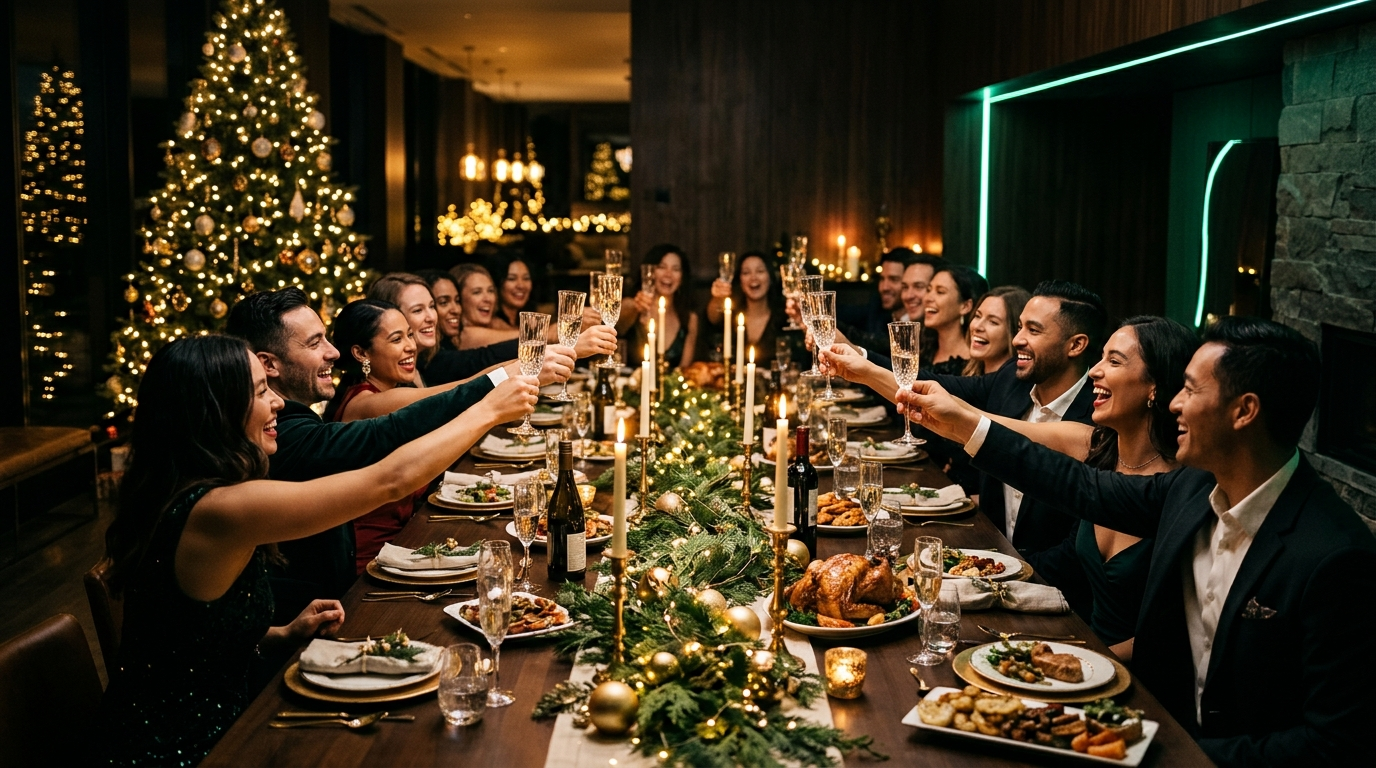
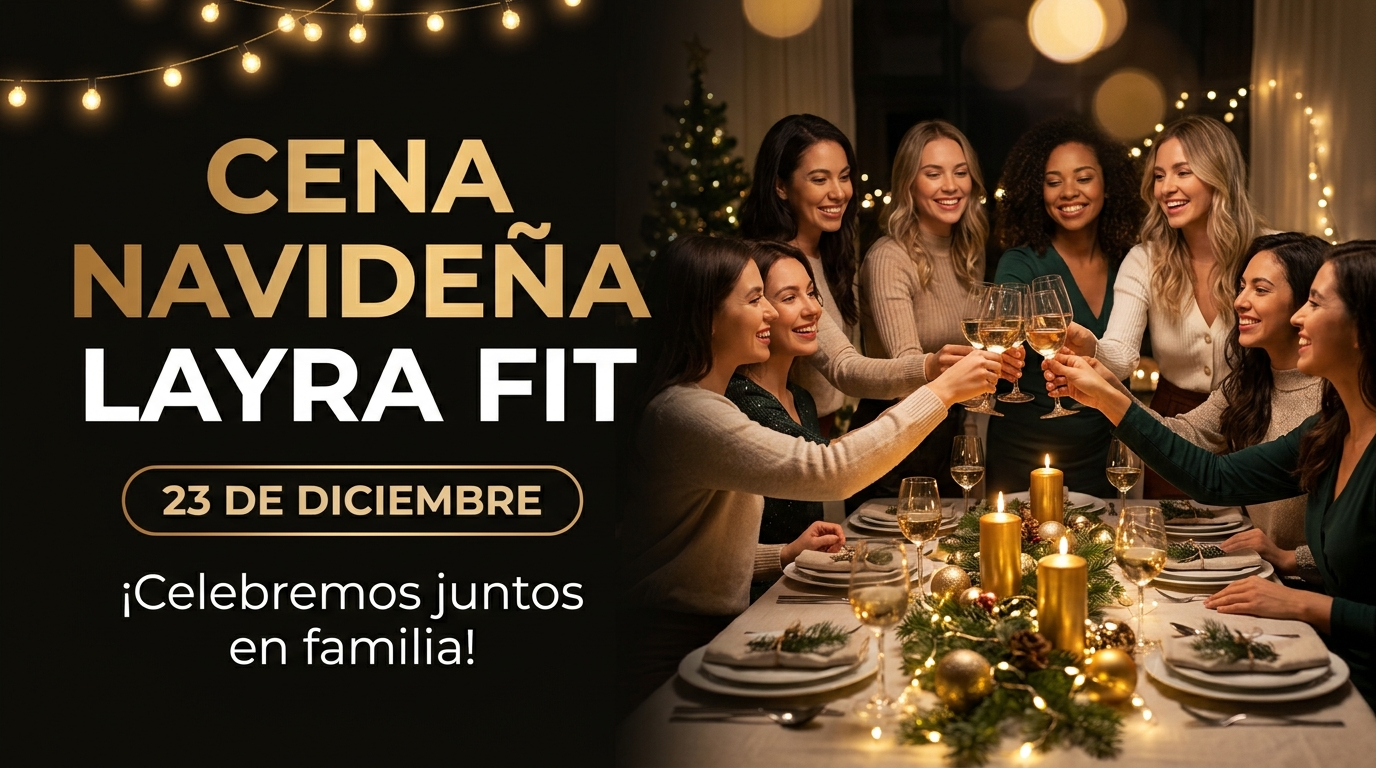
feat(student): slider 100% imagen sin superposicion de texto con flyers graficos promocionales

diff --git a/public/css/app.css b/public/css/app.css
@@ -70,21 +70,13 @@ a {color: inherit; text-decoration: none;}
 .pricing-card:hover {transform: translateY(-4px); border-color: var(--primary) !important; box-shadow: 0 12px 30px rgba(81, 32, 29, 0.5) !important;}
 .news-slider-container {position: relative; width: 100%; overflow: hidden; border-radius: 20px; border: 1px solid var(--border-color); background: var(--bg-card); box-shadow: 0 10px 28px rgba(0,0,0,0.35); user-select: none; touch-action: pan-y;}
 .news-slider-wrapper {display: flex; width: 100%; transition: transform 0.45s cubic-bezier(0.25, 1, 0.5, 1);}
-.news-slide {min-width: 100%; position: relative; display: flex; flex-direction: column; justify-content: flex-end; min-height: 220px; height: 230px; box-sizing: border-box; overflow: hidden;}
-.news-slide-bg {position: absolute; top: 0; left: 0; width: 100%; height: 100%; object-fit: cover; z-index: 1; transition: transform 0.6s ease;}
-.news-slide:hover .news-slide-bg {transform: scale(1.03);}
-.news-slide-overlay {position: absolute; inset: 0; background: linear-gradient(180deg, rgba(13,15,23,0.15) 0%, rgba(13,15,23,0.65) 50%, rgba(13,15,23,0.96) 100%); z-index: 2;}
-.news-slide-content {position: relative; z-index: 3; padding: 18px; display: flex; flex-direction: column; gap: 6px;}
-.news-slide-tag {display: inline-flex; align-items: center; gap: 5px; background: rgba(34, 197, 94, 0.2); border: 1px solid rgba(34, 197, 94, 0.45); color: #4ade80; padding: 4px 10px; border-radius: 20px; font-size: 11px; font-weight: 800; width: fit-content; text-transform: uppercase; letter-spacing: 0.5px;}
-.news-slide-tag.tag-sorteo {background: rgba(239, 68, 68, 0.22); border-color: rgba(239, 68, 68, 0.5); color: #f87171;}
-.news-slide-tag.tag-cena {background: rgba(234, 179, 8, 0.22); border-color: rgba(234, 179, 8, 0.5); color: #facc15;}
-.news-slide-tag.tag-promo {background: rgba(168, 85, 247, 0.22); border-color: rgba(168, 85, 247, 0.5); color: #c084fc;}
-.news-slide-title {font-size: 16px; font-weight: 800; color: #fff; margin: 0; line-height: 1.3; text-shadow: 0 2px 8px rgba(0,0,0,0.7);}
-.news-slide-desc {font-size: 12px; color: #cbd5e1; line-height: 1.45; margin: 0; text-shadow: 0 1px 4px rgba(0,0,0,0.8); display: -webkit-box; -webkit-line-clamp: 2; -webkit-box-orient: vertical; overflow: hidden;}
-.news-slider-arrow {position: absolute; top: 50%; transform: translateY(-50%); width: 34px; height: 34px; border-radius: 50%; background: rgba(15,18,28,0.7); backdrop-filter: blur(8px); border: 1px solid rgba(255,255,255,0.15); color: #fff; display: flex; align-items: center; justify-content: center; cursor: pointer; z-index: 10; transition: all 0.2s; font-size: 12px;}
-.news-slider-arrow:hover {background: var(--primary); border-color: var(--primary); transform: translateY(-50%) scale(1.08);}
+.news-slide {min-width: 100%; width: 100%; position: relative; aspect-ratio: 16 / 9; max-height: 260px; box-sizing: border-box; overflow: hidden; display: flex; align-items: center; justify-content: center;}
+.news-slide-img {width: 100%; height: 100%; object-fit: cover; display: block; transition: transform 0.5s ease;}
+.news-slide:hover .news-slide-img {transform: scale(1.02);}
+.news-slider-arrow {position: absolute; top: 50%; transform: translateY(-50%); width: 32px; height: 32px; border-radius: 50%; background: rgba(15,18,28,0.7); backdrop-filter: blur(8px); border: 1px solid rgba(255,255,255,0.2); color: #fff; display: flex; align-items: center; justify-content: center; cursor: pointer; z-index: 10; transition: all 0.2s; font-size: 11px;}
+.news-slider-arrow:hover {background: var(--primary); border-color: var(--primary); transform: translateY(-50%) scale(1.1);}
 .news-slider-prev {left: 10px;}
 .news-slider-next {right: 10px;}
-.news-slider-dots {position: absolute; bottom: 8px; right: 16px; display: flex; gap: 6px; z-index: 10;}
-.news-slider-dot {width: 7px; height: 7px; border-radius: 50%; background: rgba(255,255,255,0.35); border: none; cursor: pointer; transition: all 0.3s; padding: 0;}
-.news-slider-dot.active {width: 20px; border-radius: 4px; background: var(--primary);}
+.news-slider-dots {position: absolute; bottom: 10px; left: 50%; transform: translateX(-50%); display: flex; gap: 7px; z-index: 10; padding: 4px 10px; border-radius: 20px; background: rgba(0,0,0,0.4); backdrop-filter: blur(6px);}
+.news-slider-dot {width: 8px; height: 8px; border-radius: 50%; background: rgba(255,255,255,0.45); border: none; cursor: pointer; transition: all 0.3s; padding: 0;}
+.news-slider-dot.active {width: 22px; border-radius: 4px; background: var(--primary);}

diff --git a/resources/views/student/dashboard.blade.php b/resources/views/student/dashboard.blade.php
@@ -62,51 +62,15 @@
     @if($latestNews->isNotEmpty())
         <div class="news-slider-container" id="newsSlider">
             <div class="news-slider-wrapper" id="newsSliderWrapper">
-                @foreach($latestNews as $index => $news)
+                @foreach($latestNews->filter(fn($n) => !empty($n->image))->values() as $index => $news)
                     <div class="news-slide" data-index="{{ $index }}">
-                        @if($news->image)
-                            <img src="{{ $news->image }}" alt="{{ $news->title }}" class="news-slide-bg" loading="lazy">
-                        @else
-                            <div class="news-slide-bg" style="background: radial-gradient(circle at center, #2e100e 0%, #160b0a 100%);"></div>
-                        @endif
-                        <div class="news-slide-overlay"></div>
-                        <div class="news-slide-content">
-                            @php
-                                $tagClass = 'tag-promo';
-                                $tagIcon = 'fa-tag';
-                                $tagText = 'Aviso';
-                                $titleLower = mb_strtolower($news->title);
-                                if (str_contains($titleLower, 'sorteo')) {
-                                    $tagClass = 'tag-sorteo';
-                                    $tagIcon = 'fa-gift';
-                                    $tagText = 'Sorteo 23 Dic';
-                                } elseif (str_contains($titleLower, 'cena')) {
-                                    $tagClass = 'tag-cena';
-                                    $tagIcon = 'fa-champagne-glasses';
-                                    $tagText = 'Evento 23 Dic';
-                                } elseif (str_contains($titleLower, 'polo') || str_contains($titleLower, 'descuento') || str_contains($titleLower, 'dcto')) {
-                                    $tagClass = 'tag-promo';
-                                    $tagIcon = 'fa-percent';
-                                    $tagText = '15% Descuento';
-                                }
-                            @endphp
-                            <div style="display: flex; align-items: center; justify-content: space-between;">
-                                <span class="news-slide-tag {{ $tagClass }}">
-                                    <i class="fa-solid {{ $tagIcon }}"></i> {{ $tagText }}
-                                </span>
-                                <span style="font-size: 11px; color: rgba(255,255,255,0.7); font-weight: 600;">
-                                    {{ $news->published_at ? $news->published_at->format('d/m/Y') : '' }}
-                                </span>
-                            </div>
-                            <h4 class="news-slide-title">{{ $news->title }}</h4>
-                            <p class="news-slide-desc">{{ $news->description }}</p>
-                        </div>
+                        <img src="{{ $news->image }}" alt="{{ $news->title }}" class="news-slide-img" loading="lazy">
                     </div>
                 @endforeach
             </div>
 
             <!-- Flechas de navegación -->
-            @if($latestNews->count() > 1)
+            @if($latestNews->filter(fn($n) => !empty($n->image))->count() > 1)
                 <button type="button" class="news-slider-arrow news-slider-prev" id="newsPrevBtn" aria-label="Anterior">
                     <i class="fa-solid fa-chevron-left"></i>
                 </button>
@@ -116,7 +80,7 @@
 
                 <!-- Indicadores Dots -->
                 <div class="news-slider-dots" id="newsSliderDots">
-                    @foreach($latestNews as $index => $news)
+                    @foreach($latestNews->filter(fn($n) => !empty($n->image))->values() as $index => $news)
                         <button type="button" class="news-slider-dot {{ $index === 0 ? 'active' : '' }}" data-slide="{{ $index }}" aria-label="Slide {{ $index + 1 }}"></button>
                     @endforeach
                 </div>
